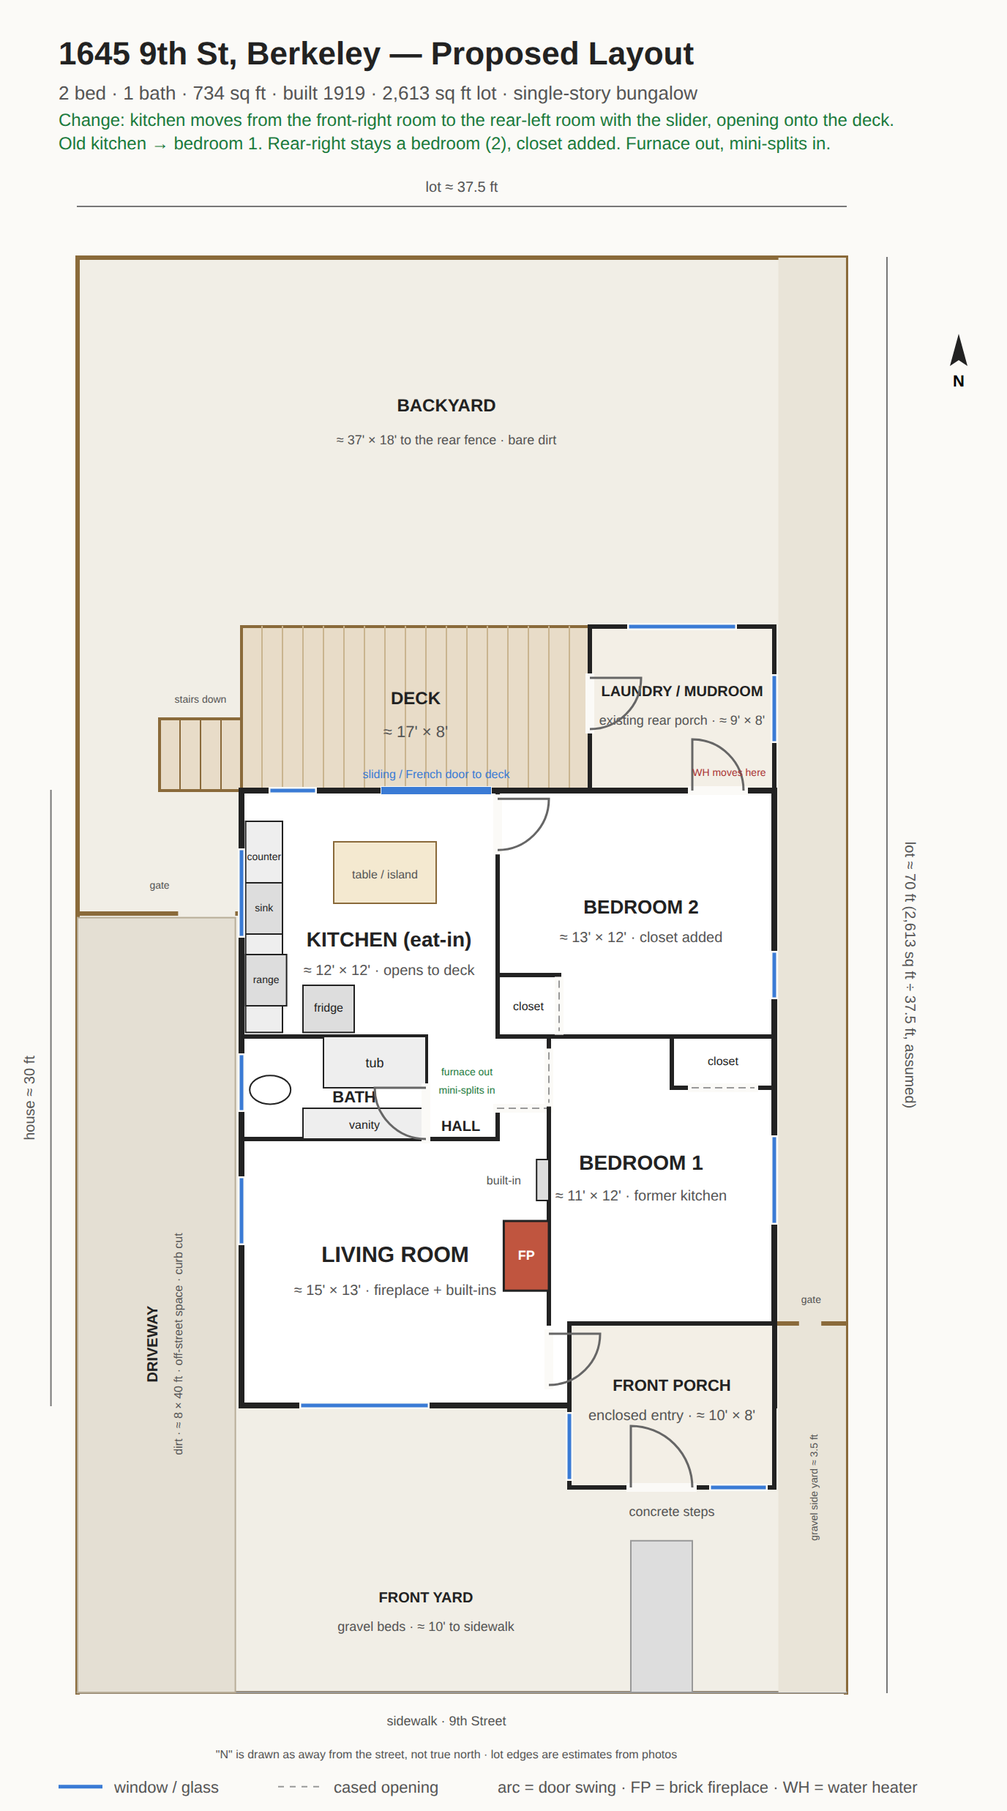
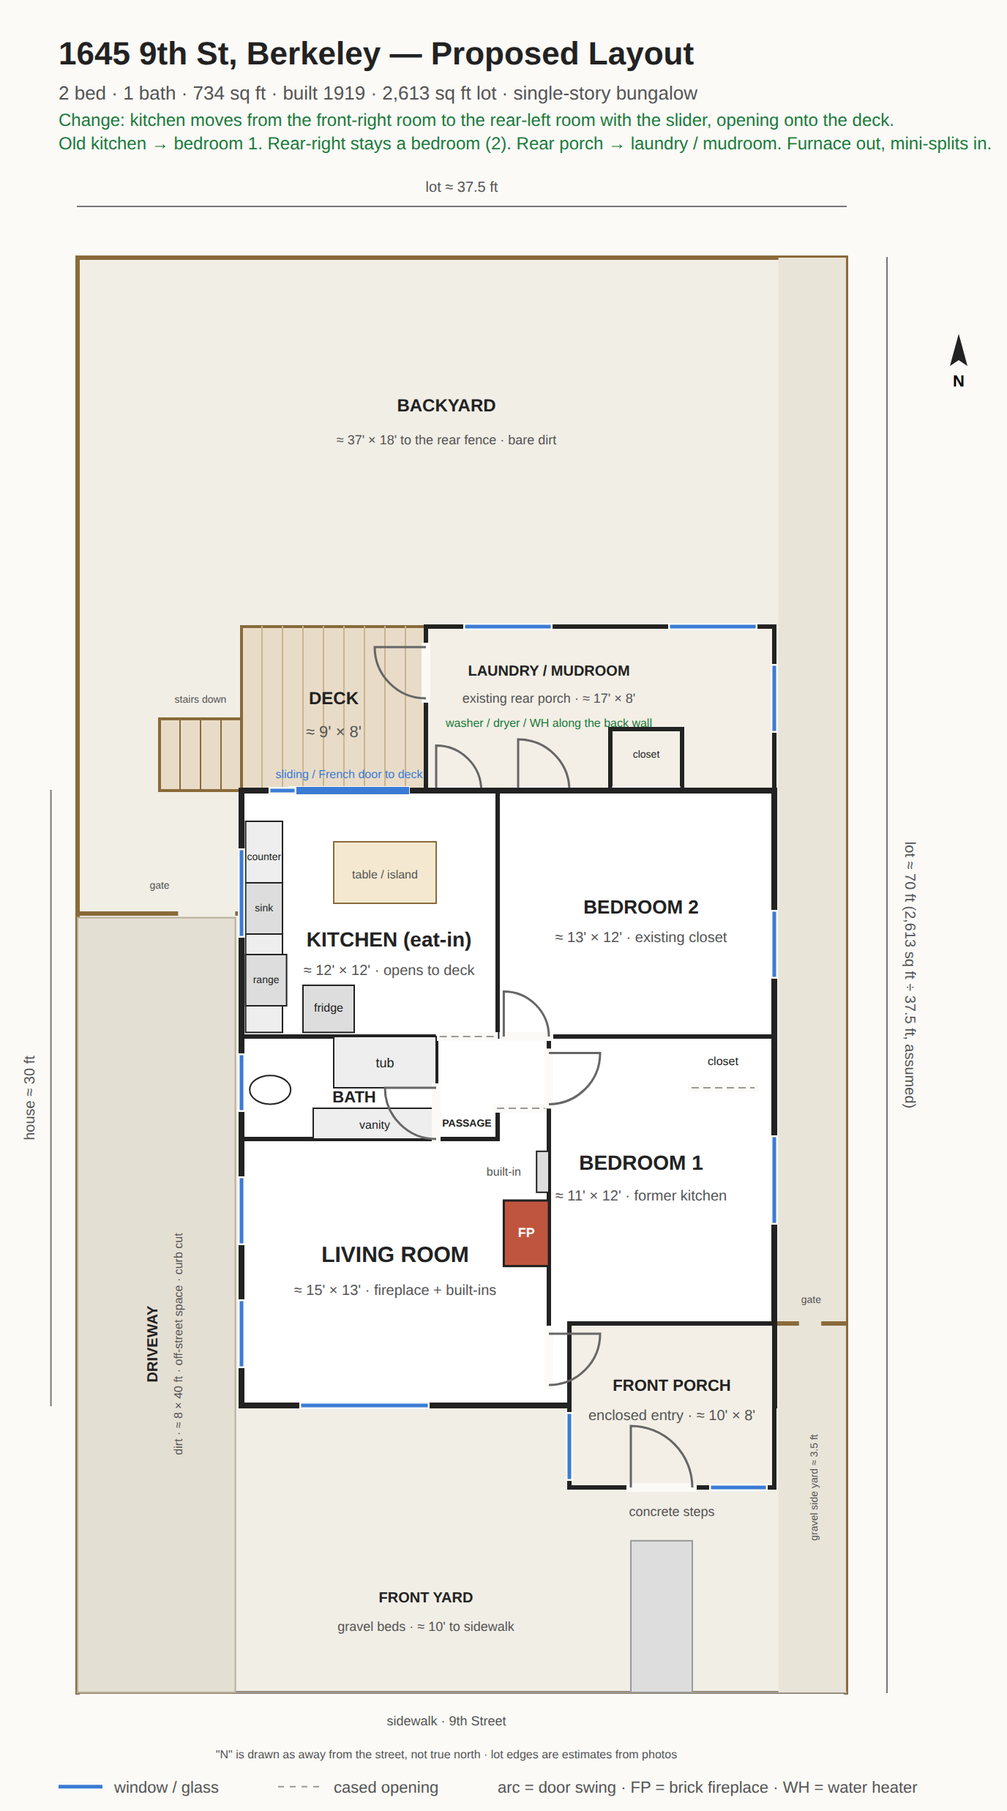
Redraw the middle and rear from the full photo set
- Passage (≈5×5) between the living room and the rear rooms holds the
  floor furnace grate; bath door west, kitchen door east, cased opening
  into bedroom 2, door into bedroom 1 (photos 09, 12, 14, 20).
- Rear porch is one enclosed ≈17×8 room across the back, flush with the
  deck; bedroom 2's rear-corner door and bedroom 1's door open into it;
  bedroom 1's closet sits inside it (photos 11, 15–20).
- Deck ≈9×8 from the porch to the west edge; stairs off its west end.
- Kitchen fixtures per photos 08/10/12: sink under the east window,
  range and WH on the porch wall with a small high window, pantry north.
- Furnace note removed from the proposed sheet; mudroom is the whole
  porch with washer/dryer/WH on the back wall.
- CLAUDE.md, index.html rewritten to match.

Claude-Session: https://claude.ai/code/session_01QP4ZkLkW7cUrZ9x3HXMY7H

diff --git a/index.html b/index.html
@@ -39,8 +39,8 @@ table{border-collapse:collapse;font-size:14px}td,th{padding:4px 12px 4px 0;text-
 <strong>Proposed changes</strong>
 <ul>
 <li><strong>Kitchen moves to the rear-left room with the slider</strong> so it opens directly onto the deck. Becomes an eat-in kitchen, roughly 12 × 12, sharing a wet wall with the bath. Sink and range on the west wall; the existing corner door to the back room stays.</li>
-<li><strong>Old kitchen (front-right, roughly 11 × 12) becomes bedroom 1.</strong> The rear-right bedroom stays a bedroom, becomes bedroom 2, roughly 13 × 12, with a closet added. Floor furnace comes out; mini-splits instead.</li>
-<li><strong>Rear porch becomes laundry / mudroom</strong>, still opening onto the deck. Water heater relocates there out of the kitchen. Open question: whether it's entered from bedroom 2, the deck only, or both.</li>
+<li><strong>Old kitchen (front-right, roughly 11 × 12) becomes bedroom 1.</strong> The rear-right bedroom stays a bedroom, becomes bedroom 2, roughly 13 × 12; it already has a closet. Floor furnace comes out; mini-splits instead.</li>
+<li><strong>Rear porch becomes laundry / mudroom</strong>, roughly 17 × 8 across the back, entered from the kitchen's rear-corner door and from bedroom 2, opening onto the deck. Washer, dryer and water heater go along its back wall.</li>
 <li>Living room, bath, hall, and front porch unchanged in this pass.</li>
 </ul>
 <strong>Open questions</strong>

diff --git a/floor-plan/generate.py b/floor-plan/generate.py
@@ -41,7 +41,7 @@ def build(variant):
     out.append(f'<text x="40" y="68" font-size="13" fill="#555">2 bed · 1 bath · 734 sq ft · built 1919 · 2,613 sq ft lot · single-story bungalow</text>')
     if proposed:
         out.append(f'<text x="40" y="86" font-size="12" fill="#1a7a3c">Change: kitchen moves from the front-right room to the rear-left room with the slider, opening onto the deck.</text>')
-        out.append(f'<text x="40" y="102" font-size="12" fill="#1a7a3c">Old kitchen → bedroom 1. Rear-right stays a bedroom (2), closet added. Furnace out, mini-splits in.</text>')
+        out.append(f'<text x="40" y="102" font-size="12" fill="#1a7a3c">Old kitchen → bedroom 1. Rear-right stays a bedroom (2). Rear porch → laundry / mudroom. Furnace out, mini-splits in.</text>')
     else:
         out.append(f'<text x="40" y="86" font-size="12" fill="#a33">From the listing photos; room positions corrected after the walkthrough. Sizes are estimates (±2 ft), not measured.</text>')
 
@@ -62,81 +62,80 @@ def build(variant):
     label(9,39.6,"FRONT YARD",10); label(9,41,"gravel beds · ≈ 10' to sidewalk",9,False,"#555")
     rect(19,36.6,22,44,fill="#ddd",stroke="#999",sw=1)   # front walk
     label(10,45.6,"sidewalk · 9th Street",9,False,"#555")
-    # deck: full width from the rear porch to the west edge of the house; stairs off its west end drop into the side yard, in line with the back wall (Keith)
-    rect(0,-8,17,0,fill="#e8dcc8",stroke="#8a6a3a",sw=2)
-    for i in range(1,17): line(i,-8,i,0,stroke="#c9b48f",sw=1)
-    label(8.5,-4.2,"DECK",12); label(8.5,-2.6,"≈ 17' × 8'",11,False,"#555")
+    # deck: from the west edge of the house to the rear porch; stairs off its west end drop into the side yard, in line with the back wall (Keith)
+    rect(0,-8,9,0,fill="#e8dcc8",stroke="#8a6a3a",sw=2)
+    for i in range(1,9): line(i,-8,i,0,stroke="#c9b48f",sw=1)
+    label(4.5,-4.2,"DECK",12); label(4.5,-2.6,"≈ 9' × 8'",11,False,"#555")
     rect(-4,-3.5,0,0,fill="#e8dcc8",stroke="#8a6a3a",sw=2)
     for i in range(1,4): line(-i,-3.5,-i,0,stroke="#8a6a3a",sw=1)
     label(-2,-4.3,"stairs down",7,False,"#555")
-    # rear porch bump-out
-    rect(17,-8,26,0,fill="#f3efe6",stroke="#222",sw=3)   # same depth as the deck
+    # rear porch bump-out (photos 11, 19, 21): one long enclosed room across the back, shelves, plywood floor;
+    # doors from bedroom 2's rear corner and from bedroom 1; bedroom 1's closet is inside it
+    rect(9,-8,26,0,fill="#f3efe6",stroke="#222",sw=3)
+    line(18,-3,21.5,-3); line(18,-3,18,0); line(21.5,-3,21.5,0); opening(18.3,0,21.2,0); label(19.75,-1.6,"closet",7,False)
     if proposed:
-        label(21.5,-4.6,"LAUNDRY / MUDROOM",10); label(21.5,-3.2,"existing rear porch · ≈ 9' × 8'",9,False,"#555")
+        label(15,-5.6,"LAUNDRY / MUDROOM",10); label(15,-4.3,"existing rear porch · ≈ 17' × 8'",9,False,"#555")
+        label(15,-3.1,"washer / dryer / WH along the back wall",8,False,"#1a7a3c")
     else:
-        label(21.5,-4.6,"REAR PORCH",11); label(21.5,-3.2,"enclosed · ≈ 9' × 8'",10,False,"#555")
-    window(19,-8,24,-8); door(17,-5.5,2.5,'e'); window(26,-5.5,26,-2.5)
+        label(15,-5.2,"REAR PORCH",11); label(15,-3.8,"enclosed · ≈ 17' × 8' · shelves, plywood floor",9,False,"#555")
+    window(11,-8,15,-8); window(21,-8,25,-8); window(26,-6,26,-3)
+    door(9,-7,2.5,'w')                                      # porch -> deck
+    door(9.5,0,2.2,'n'); door(13.5,0,2.5,'n')               # bedroom 2's rear-corner door and bedroom 1's door into the porch
     # main house
     rect(0,0,26,30,fill="#fff",stroke="#222",sw=4)
     rect(16,26,26,34,fill="#f3efe6",stroke="#222",sw=3)
     label(21,29.3,"FRONT PORCH",11); label(21,30.7,"enclosed entry · ≈ 10' × 8'",10,False,"#555")
     door(19,34,3,'n'); window(16,30.5,16,33.5); window(23,34,25.5,34)
     label(21,35.4,"concrete steps",9,False,"#555")
-    # shared interior walls
-    line(12.5,0,12.5,12); line(12.5,12,26,12)   # one wall between the rear rooms, in line with the alcove return at the living-room doorway
-    line(0,12,9,12); line(0,17,12.5,17); line(9,12,9,17)
-    line(12.5,15.5,12.5,17); opening(12.5,15.5,15,15.5)   # inset doorway: living room -> hall, in an alcove at the NE corner (photos 04, 07)
-    line(15,12,15,26)                                     # hall / kitchen wall continues as the fireplace wall
-    opening(15,12.8,15,15.2)                              # hall -> front-right room, cased opening (photo 14)
-    line(21,12,21,14.5); line(21,14.5,26,14.5)
-    # fireplace / built-in
-    rect(12.8,21,15,24.4,fill="#c0553f",stroke="#222",sw=1.5); label(13.9,22.9,"FP",9,True,"#fff")   # brick fireplace sits in the living room; the far wall is flush
-    rect(14.4,18,15,20,fill="#ddd",stroke="#222",sw=1); label(12.8,19.2,"built-in",8,False,"#555")
-    # bath
+    # interior walls: rear partition, the y=12 line, bath, passage, living room
+    line(12.5,0,12.5,12); line(12.5,12,26,12)   # partition between the rear rooms, in line with the alcove return (Keith)
+    line(0,12,9.7,12); line(9.5,12,9.5,17); line(0,17,12.5,17)
+    line(12.5,15.5,12.5,17); opening(12.5,15.5,15,15.5)   # inset doorway: living room -> passage (photos 07, 09)
+    line(15,12,15,26)                                     # passage / kitchen wall continues as the fireplace wall
+    opening(9.7,12,12.3,12)                               # passage -> bedroom 2, cased opening (photo 20)
+    door(12.8,12,2.2,'n')                                 # passage -> bedroom 1
+    door(15,12.8,2.5,'e')                                 # passage -> kitchen (photos 12, 14)
+    # fireplace / built-in on the living room's east wall (photo 07): built-in, fireplace, porch door
+    rect(12.8,20,15,23.2,fill="#c0553f",stroke="#222",sw=1.5); label(13.9,21.8,"FP",9,True,"#fff")
+    rect(14.4,17.6,15,19.6,fill="#ddd",stroke="#222",sw=1); label(12.8,18.8,"built-in",8,False,"#555")
     # bath (photos 13, 14): from the east-end door, vanity left (south wall), tub right (north wall, end at the door), toilet under the west window
-    rect(4,12,9,14.5,fill="#eee",stroke="#222",sw=1); label(6.5,13.5,"tub",9,False)
-    rect(3,15.5,9,17,fill="#eee",stroke="#222",sw=1); label(6,16.5,"vanity",8,False)
+    rect(4.5,12,9.5,14.5,fill="#eee",stroke="#222",sw=1); label(7,13.5,"tub",9,False)
+    rect(3.5,15.5,9.5,17,fill="#eee",stroke="#222",sw=1); label(6.5,16.5,"vanity",8,False)
     e=P(1.4,14.6); out.append(f'<ellipse cx="{e[0]}" cy="{e[1]}" rx="{1*S}" ry="{0.7*S}" fill="#fff" stroke="#222" stroke-width="1"/>')
-    if proposed:
-        label(11,13.9,"furnace out",7,False,"#1a7a3c"); label(11,14.8,"mini-splits in",7,False,"#1a7a3c")
-    else:
-        rect(10,13.2,12,14.6,fill="#888",stroke="#222",sw=1); label(11,15.4,"floor furnace",7,False,"#555")
-    label(5.5,15.2,"BATH",11); label(10.7,16.6,"HALL",10)
+    label(5.5,15.2,"BATH",11); label(11,16.4,"PASSAGE",7)
+    if not proposed:
+        rect(10.2,12.6,12.2,14,fill="#888",stroke="#222",sw=1); label(11.2,15,"floor furnace",7,False,"#555")   # grate in the passage (photos 09, 12, 14, 20)
 
     if not proposed:
-        # bedroom 2 rear-left with slider; bedroom 1 rear-right; kitchen front-right (per Keith, Sept 9)
-        door(12.5,0.4,2.5,'e'); door(20,0,2.5,'n')          # door to the back room is in the rear corner (photo 18)
-        line(7.5,0,12,0,stroke="#fbfaf7",sw=6); line(7.5,0,12,0,stroke="#3a7bd5",sw=5); label(9.75,-0.6,"sliding glass door",8,False,"#3a7bd5"); window(1.5,0,3.5,0)
+        # existing: bedroom 2 rear-left, bedroom 1 rear-right, kitchen front-right (Keith)
+        line(3,0,7.5,0,stroke="#fbfaf7",sw=6); line(3,0,7.5,0,stroke="#3a7bd5",sw=5); label(5.25,-0.6,"sliding glass door",8,False,"#3a7bd5")
         label(6.25,5.5,"BEDROOM 2",14); label(6.25,7,"≈ 12' × 12'",11,False,"#555")
-        label(19.5,5.5,"BEDROOM 1",14); label(19.5,7,"≈ 13' × 12' · door to rear porch",10,False,"#555")
-        # kitchen fixtures, front-right room
+        label(19.5,5.5,"BEDROOM 1",14); label(19.5,7,"≈ 13' × 12' · closet + door to rear porch",9,False,"#555")
+        # kitchen (photos 08, 10, 12): tile counter and sink under the east window, range + WH + small window on the porch wall, fridge beside, pantry shelves at the north end
         rect(24,15,26,24,fill="#eee",stroke="#222",sw=1); label(25,22.2,"tile",8,False); label(25,23.1,"counter",8,False)
         rect(24,17.5,26,20.5,fill="#ddd",stroke="#222",sw=1); label(25,19.2,"sink",8,False)
-        rect(18,12.2,20.5,14.2,fill="#ddd",stroke="#222",sw=1); label(19.25,13.4,"range",8,False)
-        rect(15.2,22,17.7,24.5,fill="#ddd",stroke="#222",sw=1); label(16.45,23.5,"fridge",8,False)
-        circle(24.9,25,0.8); label(24.9,25.3,"WH",7,False)
+        rect(15.5,23.6,18,25.8,fill="#ddd",stroke="#222",sw=1); label(16.75,24.9,"range",8,False)
+        circle(19.2,24.9,0.8); label(19.2,25.2,"WH",7,False)
+        rect(20.3,23.3,22.8,25.8,fill="#ddd",stroke="#222",sw=1); label(21.55,24.7,"fridge",8,False)
+        line(21.5,26,23.5,26,stroke="#fbfaf7",sw=6); line(21.5,26,23.5,26,stroke="#3a7bd5",sw=2.5); label(22.5,26.9,"small window to porch",7,False,"#3a7bd5")
     else:
-        # kitchen rear-left, eat-in, opens to deck; bedroom 2 rear-right
-        line(7,0,12,0,stroke="#fbfaf7",sw=6); line(7,0,12,0,stroke="#3a7bd5",sw=5); label(9.5,-0.6,"sliding / French door to deck",8,False,"#3a7bd5"); window(1.5,0,3.5,0)
+        # proposed: kitchen rear-left (eat-in, opens to the deck, door to the mudroom); bedroom 2 rear-right; bedroom 1 front-right
+        line(2.5,0,8,0,stroke="#fbfaf7",sw=6); line(2.5,0,8,0,stroke="#3a7bd5",sw=5); label(5.25,-0.6,"sliding / French door to deck",8,False,"#3a7bd5")
         rect(0.2,1.5,2,11.8,fill="#eee",stroke="#222",sw=1); label(1.1,3.4,"counter",7,False)
         rect(0.2,4.5,2,7,fill="#ddd",stroke="#222",sw=1); label(1.1,5.9,"sink",7,False)
         rect(0.2,8,2.2,10.5,fill="#ddd",stroke="#222",sw=1); label(1.2,9.4,"range",7,False)
         rect(3,9.5,5.5,11.8,fill="#ddd",stroke="#222",sw=1); label(4.25,10.8,"fridge",8,False)
         rect(4.5,2.5,9.5,5.5,fill="#f4e9d0",stroke="#8a6a3a",sw=1); label(7,4.3,"table / island",8,False,"#555")
         label(7.2,7.6,"KITCHEN (eat-in)",14); label(7.2,9,"≈ 12' × 12' · opens to deck",10,False,"#555")
-        # bedroom 2 (was bedroom 1; gains a closet)
-        door(12.5,0.4,2.5,'e')                                  # kitchen -> bedroom 2, existing corner door
-        line(12.5,9,15.5,9); line(15.5,9,15.5,12); opening(15.5,9.3,15.5,11.7); label(14,10.7,"closet",8,False)
-        door(22,0,2.5,'n')                                      # bedroom 2 -> laundry/mudroom
-        label(19.5,6,"BEDROOM 2",13); label(19.5,7.4,"≈ 13' × 12' · closet added",10,False,"#555")
-        label(23.8,-0.7,"WH moves here",7,False,"#a33")
-    # shared: bedroom 1, living room, doors
-    door(9,14.5,2.5,'w'); opening(22,14.5,25,14.5); door(15,26.5,2.5,'e')
-    window(0,3,0,7); window(0,13,0,15.5); window(0,19,0,22); window(3,30,9,30); window(26,17,26,21); window(26,8,26,10)
+        label(19.5,6,"BEDROOM 2",13); label(19.5,7.4,"≈ 13' × 12' · existing closet",10,False,"#555")
+    # shared: doors, windows, labels
+    door(9.5,14.5,2.5,'w'); opening(22,14.5,25,14.5); door(15,26.5,2.5,'e')
+    window(1.5,0,2.5,0)
+    window(0,3,0,7); window(0,13,0,15.5); window(0,19,0,22); window(0,25,0,28); window(3,30,9,30); window(26,17,26,21); window(26,6,26,9)
     if proposed:
         label(19.5,18.5,"BEDROOM 1",14); label(19.5,20,"≈ 11' × 12' · former kitchen",10,False,"#555"); label(23.5,13.4,"closet",8,False)
     else:
-        label(19.5,18.5,"KITCHEN",14); label(19.5,20,"≈ 11' × 12' · tile counters",10,False,"#555"); label(23.5,13.4,"closet / pantry",8,False)
+        label(19.3,18.5,"KITCHEN",14); label(19.3,20,"≈ 11' × 12' · galley",10,False,"#555"); label(23.5,13.4,"pantry",8,False)
     label(7.5,23,"LIVING ROOM",15); label(7.5,24.6,"≈ 15' × 13' · fireplace + built-ins",10,False,"#555")
     # dims / north / street / legend
     line(-9.3,0,-9.3,30,stroke="#777",sw=1); p=P(-10.1,15)

diff --git a/CLAUDE.md b/CLAUDE.md
@@ -29,10 +29,10 @@ Rough photo index:
 - 01–03 front exterior, 05 side yard, 21 backyard and deck
 - 04, 06, 07, 09 living room (brick fireplace, built-ins, picture rail)
 - 08, 10, 12 kitchen (front-right room behind the porch; tile counter, water heater in kitchen)
-- 11 rear enclosed porch (unfinished)
-- 13, 14 bathroom (14 looks east out the bath door: furnace grate in the hall, cased opening into the front-right room beyond)
-- 15, 16, 17 bedroom 1 (rear-right, door to the rear porch)
-- 18, 19, 20 bedroom 2 (rear, sliding door to deck; door to bedroom 1 in the rear-east corner; the furnace grate in the foreground is in the hall, which is open to this room)
+- 11 rear enclosed porch (shelves, plywood floor, small high window, glass door from bedroom 1)
+- 13, 14 bathroom (14 looks east out the bath door: furnace grate in the passage, kitchen door beyond)
+- 15, 16, 17 bedroom 1 (rear-right; closet, door to the rear porch, door to the passage)
+- 18, 19, 20 bedroom 2 (rear, sliding door to deck; door in the rear-east corner into the rear porch; 20 looks south at the passage opening with the furnace grate)
 
 ## Floor plans
 
@@ -41,21 +41,30 @@ Rough photo index:
 - `floor-plan/generate.py` — generates both SVGs; edit this, run it, then re-export PNGs with headless Chrome (see below)
 - `index.html` — shareable page with an existing/proposed toggle and both photo galleries, published at https://keithmancuso.github.io/1645-9th-st/
 
-The existing plan was reconstructed from the listing photos only, not measured. Treat room sizes as ±2 ft. Layout as drawn: living room front-left, with the built-in, the brick fireplace (flush on the far side) and the door to the front porch along its east wall; the living room connects to the hall through an inset cased doorway in an alcove at its north-east corner (photos 04, 07); the hall's west end is the bath door with the floor furnace grate right outside it (photo 14), and a cased opening on the hall's east side leads into the front-right room; enclosed front porch front-right; **kitchen behind the porch (front-right, ≈11×12)**, entered from the hall through a cased opening; small central hall open to the rear-left room; narrow bathroom on the left (door at the east end; from it, vanity on the south wall, tub on the north wall with its end at the door, toilet under the west window); **bedroom 1 rear-right (≈13×12) with a door to the rear porch, reached through a door in the rear corner of bedroom 2** (photo 18); bedroom 2 rear-left (≈12×12) with a slider at the east end of its back wall onto the deck (≈17×8, full width from the rear porch to the west edge of the house; stairs off its west end drop into the side yard in line with the back wall) and a small window west of the slider; unfinished enclosed rear porch off bedroom 1. Bathroom position and door placements are the least certain parts.
+The existing plan was reconstructed from the listing photos and Keith's walkthrough notes, not measured. Treat room sizes as ±2 ft.
 
-The lot is drawn from photos 01, 05 and 21 and the listed 2,613 sq ft: about 37.5 ft wide (an 8 ft dirt driveway on the west running from the curb to a gate near the house's rear corner, a 3.5 ft gravel side yard on the east with its own gate at the back of the porch) by 70 ft deep, with roughly 18 ft of bare backyard behind the deck and 10 ft of gravel front yard to the sidewalk. None of that is measured.
+Layout as drawn (Sept 9 revision, from photos 04–20):
 
-Correction, Sept 9: the first draft had the kitchen and bedroom 1 swapped (kitchen rear-right, bedroom 1 front-right). Keith confirmed after the walkthrough that the front-right room is the kitchen today. Room sizes still need checking against a real plan; none was found in the listing or the disclosure package. The first draft also drew a 2 ft double wall between the two rear rooms; there was no evidence for it, so it is now one wall with a single door in the rear corner, where photo 18 shows it. The same photo shows no closet in that corner, so the bedroom 2 closet from the first draft is gone.
+- **Living room** front-left, ≈15×13. East wall, north to south: built-in, brick fireplace (flush on the far side), door to the enclosed front porch. Its north wall has an inset cased doorway at the east end (a short return wall makes the alcove) that opens into the passage.
+- **Passage**, ≈5×5, between the living room and the rear rooms: bath door on the west, kitchen door on the east, cased opening north into bedroom 2, door north-east into bedroom 1. The red-tagged floor furnace grate is in its floor.
+- **Bath** ≈9×5 on the west: door at the east end; from it, vanity on the south wall, tub on the north wall with its end at the door, toilet under the west window.
+- **Kitchen** front-right, ≈11×12, behind the porch: tile counter and sink under the east window, range and water heater on the porch wall with a small high window into the porch, fridge beside them, pantry shelves at the north end.
+- **Bedroom 2** rear-left, ≈12×12: slider onto the deck, door in the rear-east corner into the rear porch, no closet.
+- **Bedroom 1** rear-right, ≈13×12: door from the passage, door into the rear porch, closet inside the porch bump-out. The partition between the rear rooms lines up with the alcove return.
+- **Rear porch** ≈17×8, enclosed, shelves, plywood floor, across the back of both rear rooms, flush with the deck edge; door to the deck.
+- **Deck** ≈9×8 from the porch to the west edge of the house; stairs off its west end drop into the side yard in line with the back wall.
+
+The lot is drawn from photos 01, 03, 05 and 21 and the listed 2,613 sq ft: about 37.5 ft wide (an 8 ft dirt driveway on the west running from the curb to a gate near the house's rear corner, a 3.5 ft gravel side yard on the east with its own gate at the back of the porch) by 70 ft deep, with roughly 18 ft of bare backyard behind the deck and 10 ft of gravel front yard to the sidewalk. None of that is measured.
 
 ### Proposed changes (as of Sept 9, 2026)
 
 1. **Kitchen moves to the rear-left room with the slider** so it opens directly onto the deck (eat-in, ≈12×12). Reason: don't want to walk through a bedroom to reach the yard. The new kitchen shares its south wall with the bathroom, so the wet wall is shared.
-2. **Old kitchen (front-right, ≈11×12) becomes bedroom 1.** Its plumbing gets abandoned.
-3. **Rear-right bedroom stays a bedroom** and becomes bedroom 2 (≈13×12) with a closet added on the hall wall. It keeps the existing corner door, which now opens from the kitchen; a door from the hall would need the hall's east wall opened. Range goes on the west wall with the sink; the corner door rules out a run on the back wall.
-4. **Rear porch becomes laundry / mudroom**, still opening onto the deck; water heater relocates there. Open question: entered from bedroom 2, the deck only, or both.
-5. Living room, bath, hall, front porch unchanged in this pass. Bedroom 1 (old kitchen) is entered from the hall through the existing cased opening; hang a door there.
+2. **Old kitchen (front-right, ≈11×12) becomes bedroom 1**, entered from the passage through the existing kitchen door. Its plumbing gets abandoned.
+3. **Rear-right bedroom stays a bedroom** and becomes bedroom 2 (≈13×12). It already has a closet and a door into the rear porch.
+4. **Rear porch becomes laundry / mudroom** (≈17×8), reached from the kitchen's rear-corner door and from bedroom 2, opening onto the deck; washer, dryer and water heater along the back wall.
+5. Living room, bath, passage, front porch unchanged. Floor furnace comes out; mini-splits.
 
-Open questions: verify room sizes and door placements on the next visit (no measured plan exists); confirm whether the termite report's "rear half bathroom" means there is a second sink/half bath in the rear porch area, which now sits off bedroom 1. The floor furnace is red-tagged by PG&E (Aug 2026) and comes out; heating will be mini-splits (see `BUDGET.md`). The proposed sheet omits the furnace for that reason.
+Open questions: verify room sizes and door placements on the next visit (no measured plan exists); confirm whether the termite report's "rear half bathroom" means there is a second sink/half bath in the rear porch area, which now sits off bedroom 1. The floor furnace is red-tagged by PG&E (Aug 2026) and comes out; heating will be mini-splits (see `BUDGET.md`). 
 
 ## Renovation reference — 2435 Valley St, Berkeley, CA 94702
 
